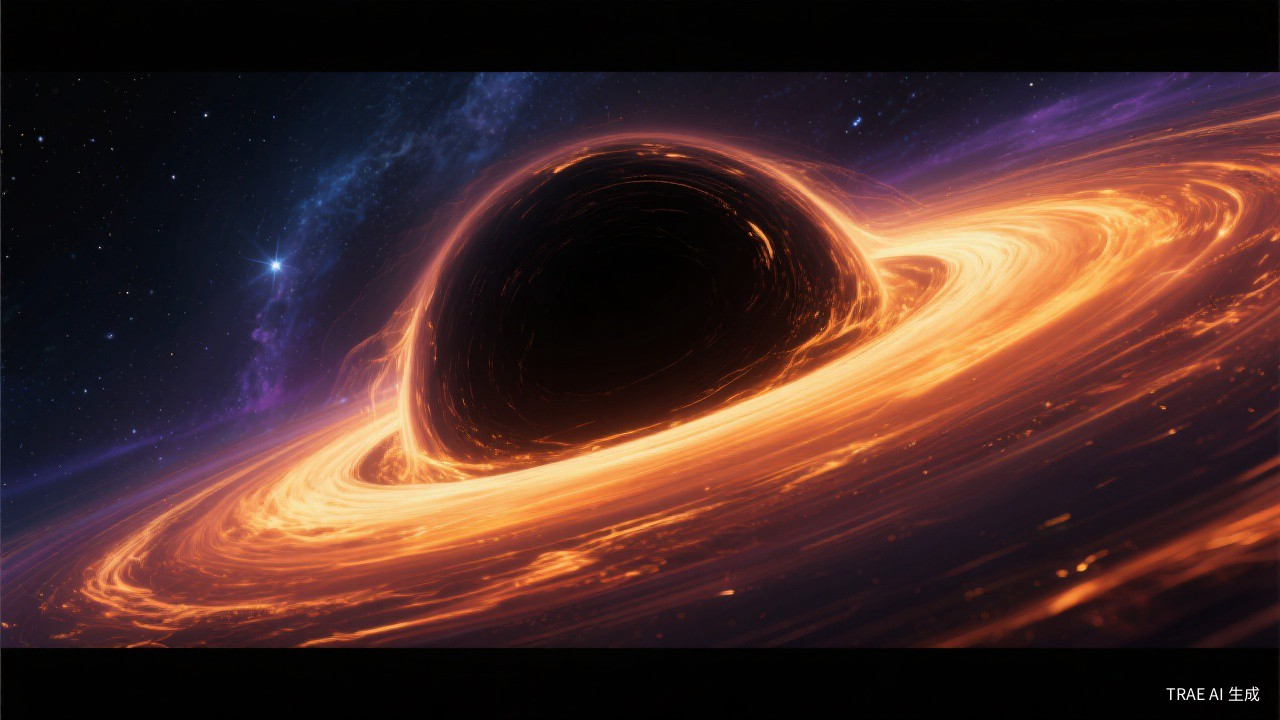
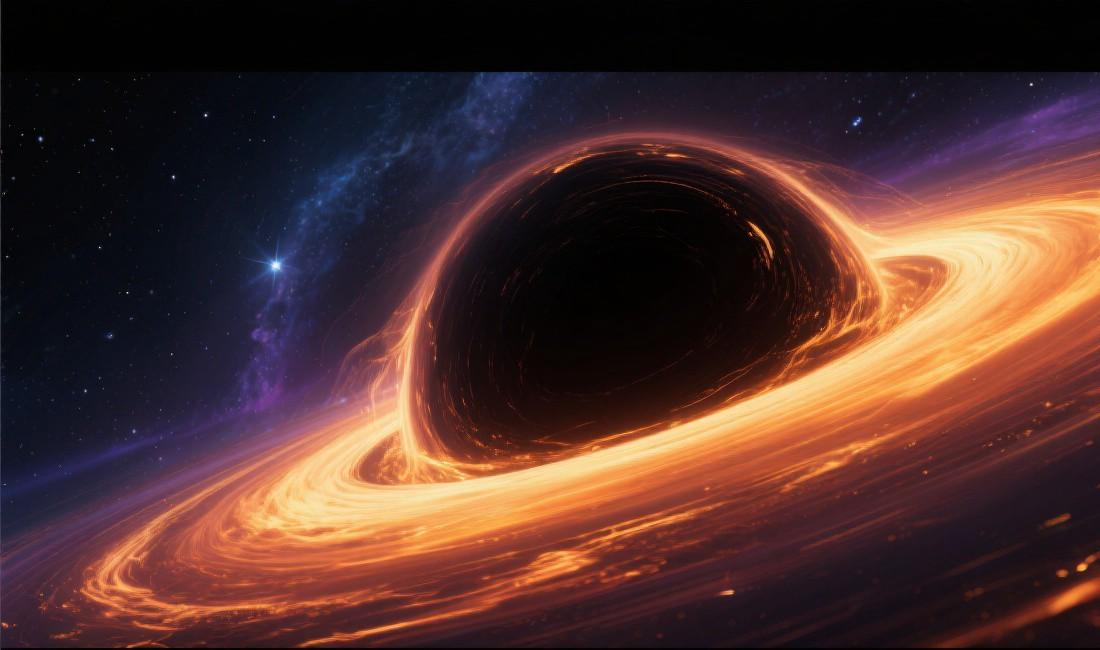
style: remove TRAE watermark from hero background and align categories page design with homepage tags

diff --git a/assets/css/style.css b/assets/css/style.css
@@ -1019,38 +1019,55 @@ img { max-width: 100%; height: auto; }
   display: inline-flex;
   align-items: center;
   gap: 0.4rem;
-  padding: 0.5rem 1rem;
-  border-radius: var(--radius-sm);
-  font-size: 0.95rem;
+  padding: 0.4rem 1.2rem;
+  border-radius: 999px;
+  font-size: 0.85rem;
   font-family: var(--font-display);
   font-weight: 500;
-  color: var(--color-text);
-  background: var(--color-surface);
-  border: 1px solid var(--color-border);
+  color: #ffffff;
+  background: linear-gradient(135deg, var(--color-gradient-start), var(--color-gradient-end), var(--color-gradient-accent));
+  background-size: 200% 200%;
+  animation: tagGradient 3s ease infinite;
   text-decoration: none;
   transition: all var(--transition);
-  box-shadow: var(--shadow-sm);
+  box-shadow: 0 2px 8px rgba(99, 102, 241, 0.25);
+  position: relative;
+  overflow: hidden;
+}
+
+.category-card::before {
+  content: '';
+  position: absolute;
+  top: -50%;
+  left: -50%;
+  width: 200%;
+  height: 200%;
+  background: linear-gradient(
+    45deg,
+    transparent 30%,
+    rgba(255, 255, 255, 0.15) 50%,
+    transparent 70%
+  );
+  animation: tagShine 3s ease-in-out infinite;
 }
 
 .category-card:hover {
-  transform: translateY(-2px);
-  box-shadow: var(--shadow-md);
-  border-color: var(--color-primary);
-  color: var(--color-primary);
+  transform: translateY(-2px) scale(1.05);
+  box-shadow: 0 4px 16px rgba(99, 102, 241, 0.4);
 }
 
 .category-card .cat-icon {
-  color: var(--color-primary);
+  font-size: 1rem;
 }
 
 .category-card .cat-name {
-  font-weight: 600;
+  font-weight: 500;
 }
 
 .category-card .cat-count {
-  font-size: 0.8rem;
-  color: var(--color-text-tertiary);
-  margin-left: 0.2rem;
+  font-size: 0.75rem;
+  opacity: 0.8;
+  margin-left: 0.1rem;
 }
 
 .category-posts {
@@ -1065,29 +1082,34 @@ img { max-width: 100%; height: auto; }
   display: flex;
   align-items: center;
   justify-content: space-between;
-  margin-bottom: 1.5rem;
+  margin-bottom: 1.25rem;
   padding-bottom: 0.75rem;
   border-bottom: 1px solid var(--color-border);
 }
 
 .category-header h3 {
-  font-family: var(--font-serif);
-  font-size: 1.5rem;
-  font-weight: 700;
+  font-size: 0.9rem;
+  font-weight: 600;
+  color: var(--color-text-secondary);
+  text-transform: uppercase;
+  letter-spacing: 0.06em;
   display: flex;
   align-items: center;
-  gap: 0.6rem;
-  color: var(--color-text);
+  gap: 0.5rem;
 }
 
 .category-header h3 svg {
   color: var(--color-primary);
+  width: 16px;
+  height: 16px;
 }
 
 .category-header .count {
-  font-size: 0.85rem;
-  color: var(--color-text-secondary);
-  font-family: var(--font-display);
+  font-size: 0.75rem;
+  color: var(--color-text-tertiary);
+  background: var(--color-code-bg);
+  padding: 0.15rem 0.55rem;
+  border-radius: 999px;
 }
 
 /* ===== Bento Grid (About Page) ===== */

diff --git a/categories.html b/categories.html
@@ -22,10 +22,10 @@ permalink: /categories.html
       <section id="{{ cat[0] | slugify }}" class="category-section">
         <div class="category-header">
           <h3>
-            <svg width="20" height="20" viewBox="0 0 24 24" fill="none" stroke="currentColor" stroke-width="2" stroke-linecap="round" stroke-linejoin="round"><path d="M22 19a2 2 0 0 1-2 2H4a2 2 0 0 1-2-2V5a2 2 0 0 1 2-2h5l2 3h9a2 2 0 0 1 2 2z"></path></svg>
+            <svg width="16" height="16" viewBox="0 0 24 24" fill="none" stroke="currentColor" stroke-width="2" stroke-linecap="round" stroke-linejoin="round"><path d="M22 19a2 2 0 0 1-2 2H4a2 2 0 0 1-2-2V5a2 2 0 0 1 2-2h5l2 3h9a2 2 0 0 1 2 2z"></path></svg>
             {{ cat[0] }}
           </h3>
-          <span class="count">{{ cat[1].size }} 篇文章</span>
+          <span class="count">{{ cat[1].size }} 篇</span>
         </div>
         <div class="post-list">
           {% for post in cat[1] %}
